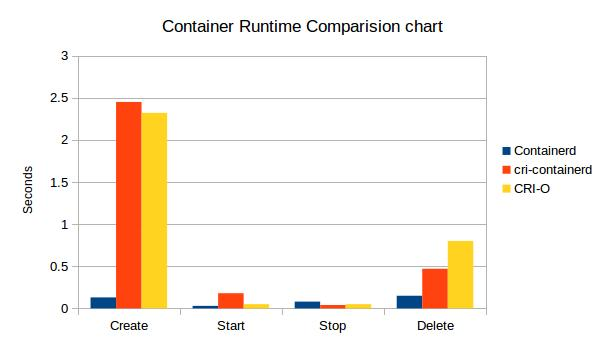
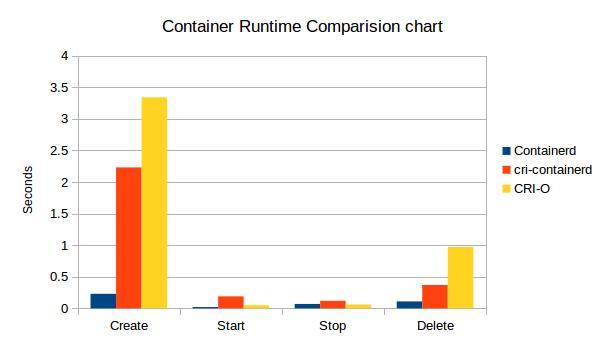
Updated profile data and graph

diff --git a/README.md b/README.md
@@ -74,16 +74,12 @@ Flags:
 
 #### Performace:
 
-Below is some performace numbers as of ``Oct 23, 2017``
+Below is some performace numbers as of ``Dec 1, 2017``
 
 ![Perfomance](Performance.jpg)
 * _All using same runc version_
 
-```
-runc version 1.0.0-rc4+dev
-commit: f53ad9cec928821a25c2a74eb8bd95558f8cf152
-spec: 1.0.0
-```
+More Details https://gist.github.com/kunalkushwaha/6a7b075dd7b05a5af94cc3794c9f069a
 
 
 #### Important TODO:
